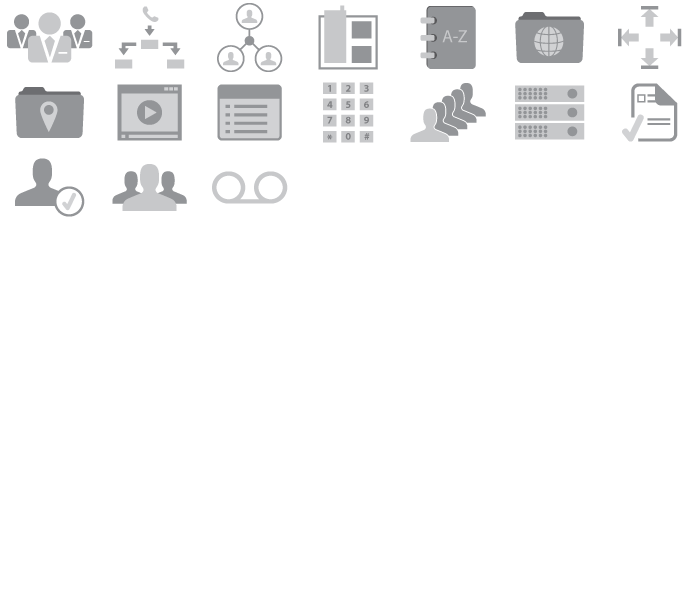
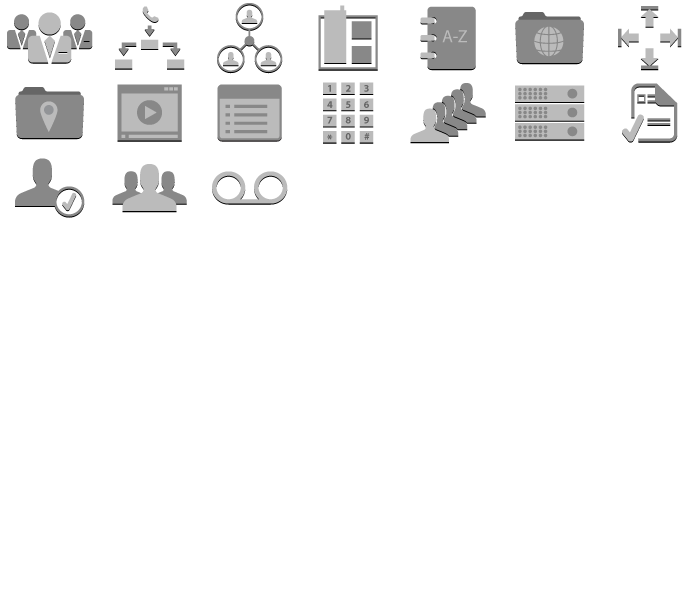
api.js updates and API home screen functionality

diff --git a/whapps/developer/api/css/api.css b/whapps/developer/api/css/api.css
@@ -125,7 +125,7 @@
 
 #dev_home {
 	margin: 0 0 0 49px;
-	width: 1040px;
+	width: 1090px;
 }
 
 #dev_intro {
@@ -141,40 +141,30 @@
 	margin-bottom: 9px;
 }
 
-table#choose_api {
-	width: 1000px;
-}
-
-table#choose_api td{
-	border: none;
-	padding: 0 40px 40px 0px;
-}
-
 .api-btn {
 	background-color: #333333;
+	border: 1px solid #2a2a2a;
 	border-radius: 5px;
 	display: inline-block;
 	height: 150px;
-	margin: 0 30px 30px 0;
+	margin: 0 40px 40px 0;
 	position: relative;
-	width: 175px;
+	width: 170px;
 	-webkit-border-radius: 5px;
 	-moz-border-radius: 5px;
 }
 
 .api-btn:hover {
 	background: #333333; /* Old browsers */
-	background: -moz-radial-gradient(center, ellipse cover, #333333 20%, #282828 100%); /* FF3.6+ */
-	background: -webkit-gradient(radial, center center, 0px, center center, 100%, color-stop(20%,#333333), color-stop(100%,#282828)); /* Chrome,Safari4+ */
-	background: -webkit-radial-gradient(center, ellipse cover, #333333 20%,#282828 100%); /* Chrome10+,Safari5.1+ */
-	background: -o-radial-gradient(center, ellipse cover, #333333 20%,#282828 100%); /* Opera 12+ */
-	background: -ms-radial-gradient(center, ellipse cover, #333333 20%,#282828 100%); /* IE10+ */
-	background: radial-gradient(ellipse at center, #333333 20%,#282828 100%); /* W3C */
-	filter: progid:DXImageTransform.Microsoft.gradient( startColorstr='#333333', endColorstr='#282828',GradientType=1 ); /* IE6-9 fallback on horizontal gradient */
+	background: -moz-radial-gradient(center, ellipse cover, #333333 20%, #262626 100%); /* FF3.6+ */
+	background: -webkit-gradient(radial, center center, 0px, center center, 100%, color-stop(20%,#333333), color-stop(100%,#262626)); /* Chrome,Safari4+ */
+	background: -webkit-radial-gradient(center, ellipse cover, #333333 20%,#262626 100%); /* Chrome10+,Safari5.1+ */
+	background: -o-radial-gradient(center, ellipse cover, #333333 20%,#262626 100%); /* Opera 12+ */
+	background: -ms-radial-gradient(center, ellipse cover, #333333 20%,#262626 100%); /* IE10+ */
+	background: radial-gradient(ellipse at center, #333333 20%,#262626 100%); /* W3C */
+	filter: progid:DXImageTransform.Microsoft.gradient( startColorstr='#333333', endColorstr='#262626',GradientType=1 ); /* IE6-9 fallback on horizontal gradient */
 
-	-moz-box-shadow: inset 0 0 0px 1px #05ADDC;
-	-webkit-box-shadow: inset 0 0 0px 1px #05ADDC;
-	box-shadow: inset 0 0 0px 1px #05ADDC;
+	border: 1px solid #05ADDC;
 }
 
 .api-btn:hover .api_name {

diff --git a/whapps/developer/api/api.js b/whapps/developer/api/api.js
@@ -375,6 +375,7 @@ winkstart.module('developer', 'api', {
             }
         },
 
+
 		format_list: function(data) {
 			var THIS = this,
 				new_list = [];
@@ -431,6 +432,14 @@ winkstart.module('developer', 'api', {
 							schema: THIS.format_list(data.data)
 						},
 					    api_html = THIS.templates.api.tmpl(template_data);
+
+                        //joshS script attempt
+                        
+                        api_html.find('.api-btn').click(function(){
+                            THIS.render_list(api_html);
+                            api_html.find('#dev_home').hide();
+                            api_html.find('#specificApi').show();
+                        });
 
             		(parent || $('#ws-content'))
                 		.empty()
